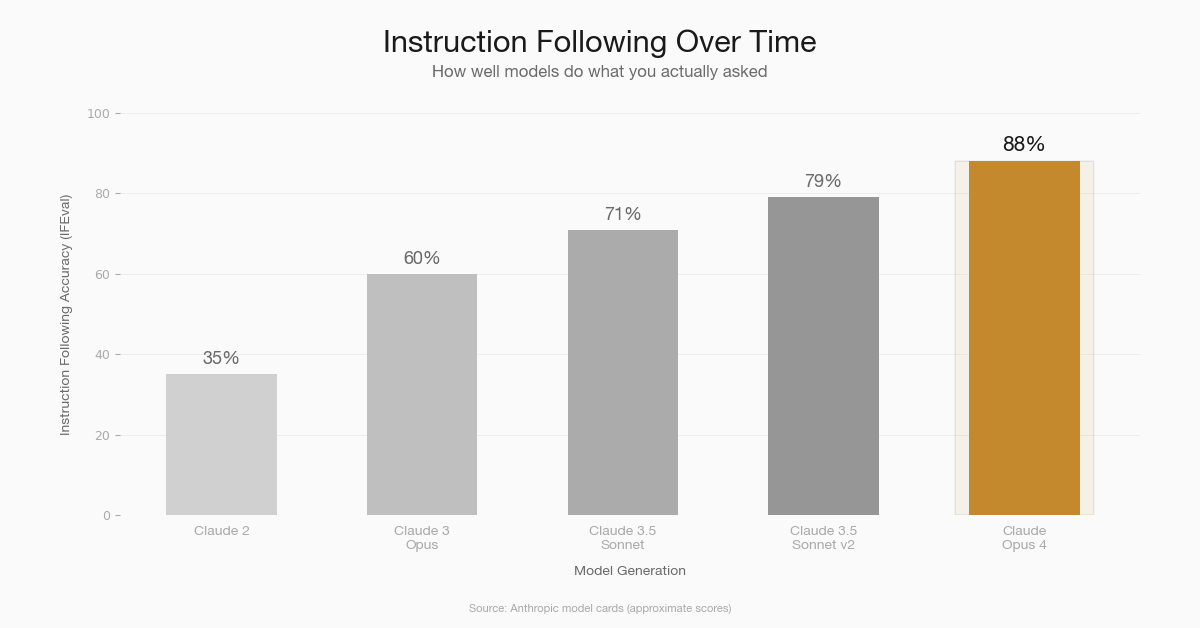
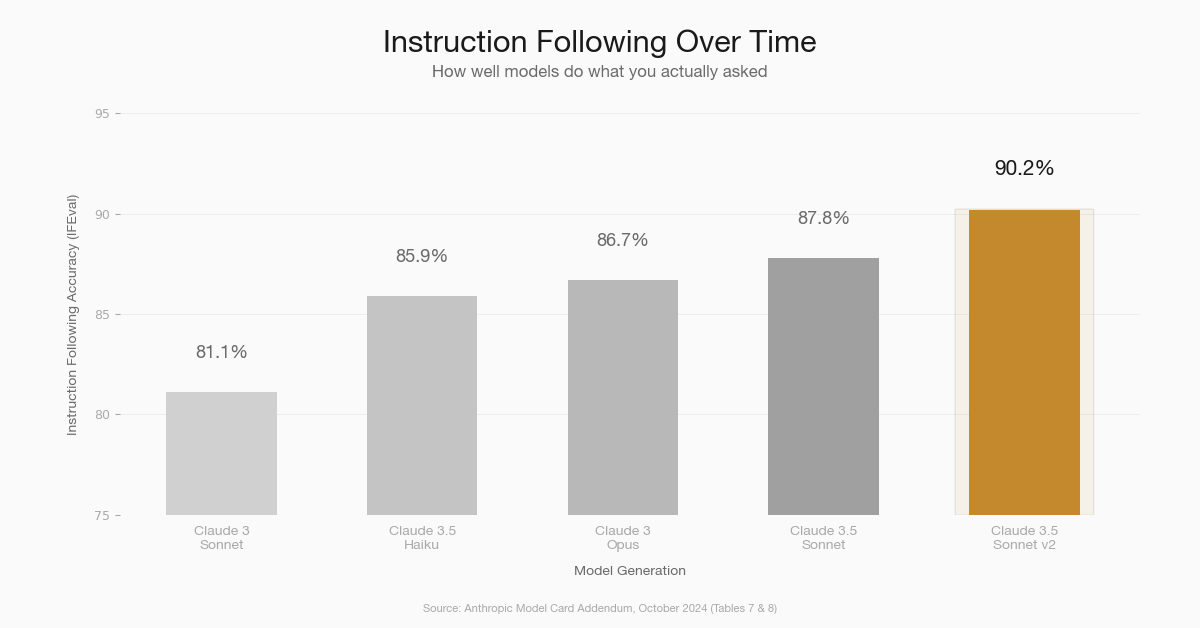
Update benchmark chart with verified IFEval scores
Use confirmed scores from Anthropic's October 2024 Model Card Addendum
(Tables 7 & 8): Claude 3 Sonnet 81.1%, Claude 3.5 Haiku 85.9%,
Claude 3 Opus 86.7%, Claude 3.5 Sonnet 87.8%, Claude 3.5 Sonnet v2 90.2%.

diff --git a/graphic2_benchmark.py b/graphic2_benchmark.py
@@ -18,10 +18,10 @@ BAR_RISING = '#B8B8B8'        # slightly darker mid-bars
 GRID_COLOR = '#E8E8E8'
 FONT = 'Helvetica Neue'
 
-# --- Data ---
-models = ['Claude 2', 'Claude 3\nOpus', 'Claude 3.5\nSonnet', 'Claude 3.5\nSonnet v2', 'Claude\nOpus 4']
-scores = [35, 60, 71, 79, 88]
-bar_colors = ['#D0D0D0', '#BFBFBF', '#ABABAB', '#969696', ACCENT_GLOW]
+# --- Data (verified from Anthropic October 2024 Model Card Addendum, Tables 7 & 8) ---
+models = ['Claude 3\nSonnet', 'Claude 3.5\nHaiku', 'Claude 3\nOpus', 'Claude 3.5\nSonnet', 'Claude 3.5\nSonnet v2']
+scores = [81.1, 85.9, 86.7, 87.8, 90.2]
+bar_colors = ['#D0D0D0', '#C4C4C4', '#B8B8B8', '#A0A0A0', ACCENT_GLOW]
 
 # --- Figure Setup ---
 fig, ax = plt.subplots(1, 1, figsize=(12, 6.28), dpi=100)
@@ -50,9 +50,9 @@ for bar in bars:
 # Glow effect on last bar
 last_bar = bars[-1]
 glow_rect = patches.FancyBboxPatch(
-    (last_bar.get_x() - 0.05, 0),
+    (last_bar.get_x() - 0.05, 75),
     last_bar.get_width() + 0.1,
-    scores[-1],
+    scores[-1] - 75,
     boxstyle="round,pad=0.02",
     facecolor=ACCENT_GLOW,
     alpha=0.08,
@@ -83,8 +83,8 @@ ax.set_xlabel('Model Generation',
               labelpad=10)
 
 # Y-axis
-ax.set_ylim(0, 100)
-ax.set_yticks([0, 20, 40, 60, 80, 100])
+ax.set_ylim(75, 95)
+ax.set_yticks([75, 80, 85, 90, 95])
 ax.tick_params(axis='y', colors=TEXT_DIMMED, labelsize=9)
 ax.tick_params(axis='x', colors=TEXT_DIMMED, length=0, pad=8)
 
@@ -98,7 +98,7 @@ for spine in ax.spines.values():
 
 # --- Footnote ---
 fig.text(0.5, 0.03,
-         'Source: Anthropic model cards (approximate scores)',
+         'Source: Anthropic Model Card Addendum, October 2024 (Tables 7 & 8)',
          fontsize=8, color=TEXT_DIMMED,
          ha='center', va='center', fontfamily=FONT,
          style='italic')
